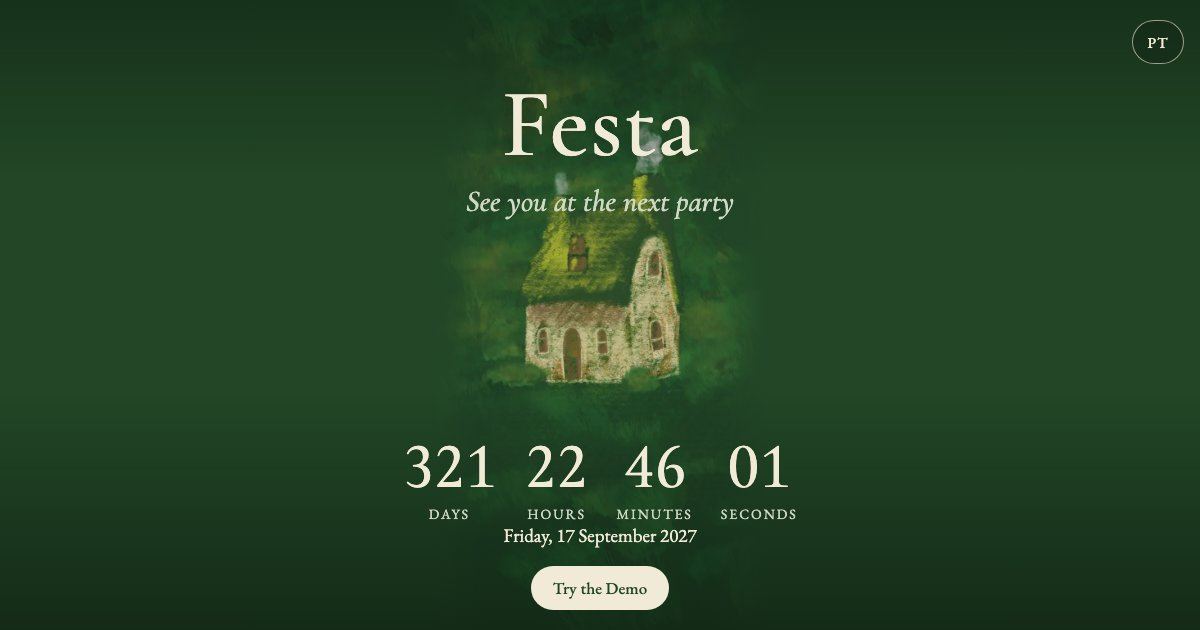
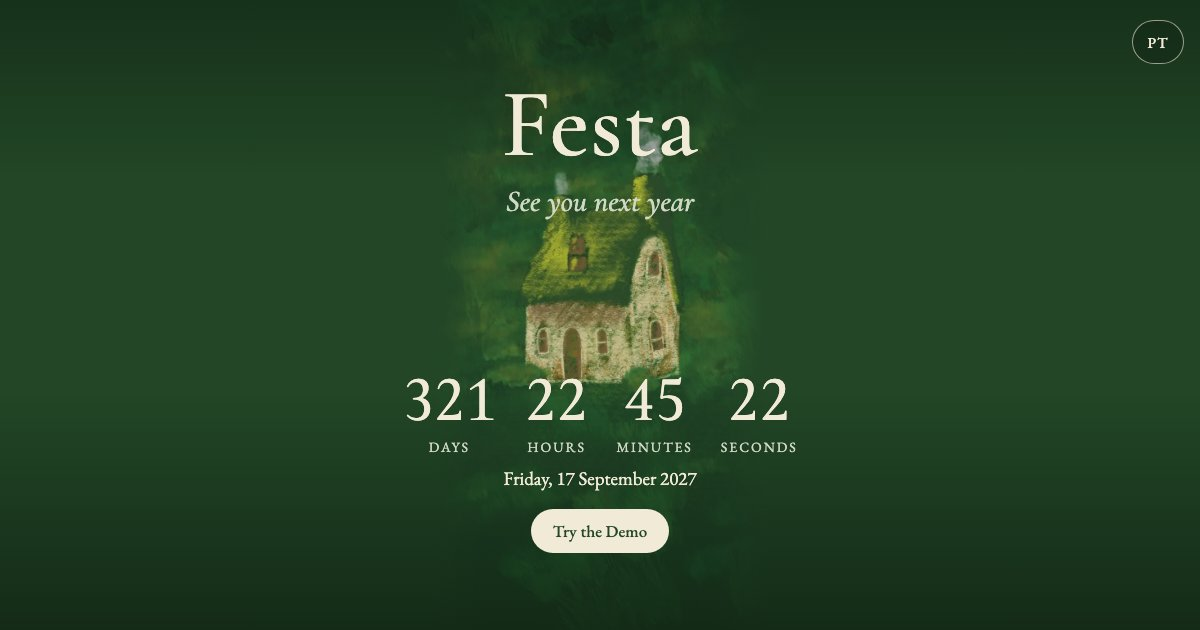
Say "See you next year" (no repeated word); counter a little higher
Claude-Session: https://claude.ai/code/session_01G9FaX7JLn1wRheviex6kJb

diff --git a/index.html b/index.html
@@ -57,12 +57,12 @@
   h1 { font: 500 clamp(56px, 11vw, 96px)/1 var(--serif); margin: 0; letter-spacing: .01em; text-shadow: 0 2px 18px rgba(0, 0, 0, .35); }
   .see { font: italic 500 clamp(22px, 3.6vw, 30px)/1.25 var(--serif); margin: 10px 0 0; color: var(--soft); text-wrap: balance; }
 
-  .bottom { display: grid; gap: 18px; justify-items: center; align-self: end; }
+  .bottom { display: grid; gap: 18px; justify-items: center; align-self: end; margin-bottom: 9svh; }
   .count { display: flex; gap: clamp(12px, 3vw, 28px); margin: 0; padding: 0; list-style: none; }
   .count li { display: grid; min-width: 64px; }
   .count b { font: 500 clamp(40px, 8vw, 64px)/1 var(--serif); font-variant-numeric: lining-nums tabular-nums; }
   .count span { font-size: 14px; letter-spacing: .14em; text-transform: uppercase; color: var(--soft); margin-top: 6px; }
-  .when { font-size: 19px; margin: 0; }
+  .when { font-size: 19px; margin: 10px 0 0; }
   .tba { font: italic 500 26px var(--serif); margin: 0; }
   .demo {
     display: inline-flex; align-items: center; min-height: 44px; padding: 0 22px; border-radius: 999px; text-decoration: none;
@@ -106,8 +106,8 @@
   const NEXT = nextParty();
 
   const T = {
-    en: { see: "See you at the next party", tba: "Date to be announced", now: "It's party time", demo: "Try the Demo", units: ["Days", "Hours", "Minutes", "Seconds"], other: "PT", otherLabel: "Ver em português", title: "Festa · See You at the Next Party" },
-    pt: { see: "Até à próxima festa", tba: "Data a anunciar", now: "É hora da festa", demo: "Experimentar a demo", units: ["Dias", "Horas", "Minutos", "Segundos"], other: "EN", otherLabel: "View in English", title: "Festa · Até à próxima festa" },
+    en: { see: "See you next year", tba: "Date to be announced", now: "It's party time", demo: "Try the Demo", units: ["Days", "Hours", "Minutes", "Seconds"], other: "PT", otherLabel: "Ver em português", title: "Festa · See You at the Next Party" },
+    pt: { see: "Até para o ano", tba: "Data a anunciar", now: "É hora da festa", demo: "Experimentar a demo", units: ["Dias", "Horas", "Minutos", "Segundos"], other: "EN", otherLabel: "View in English", title: "Festa · Até à próxima festa" },
   };
   let saved = null; try { saved = localStorage.getItem("lang"); } catch (_) {}
   let lang = new URLSearchParams(location.search).get("lang") || saved || ((navigator.language || "").toLowerCase().startsWith("pt") ? "pt" : "en");
